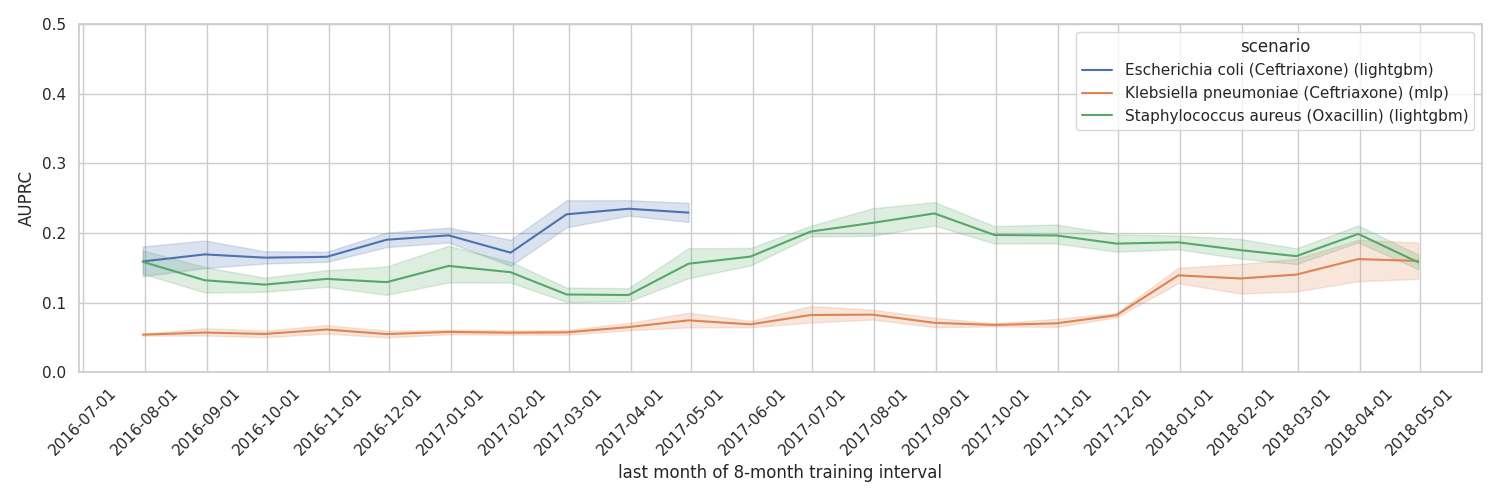
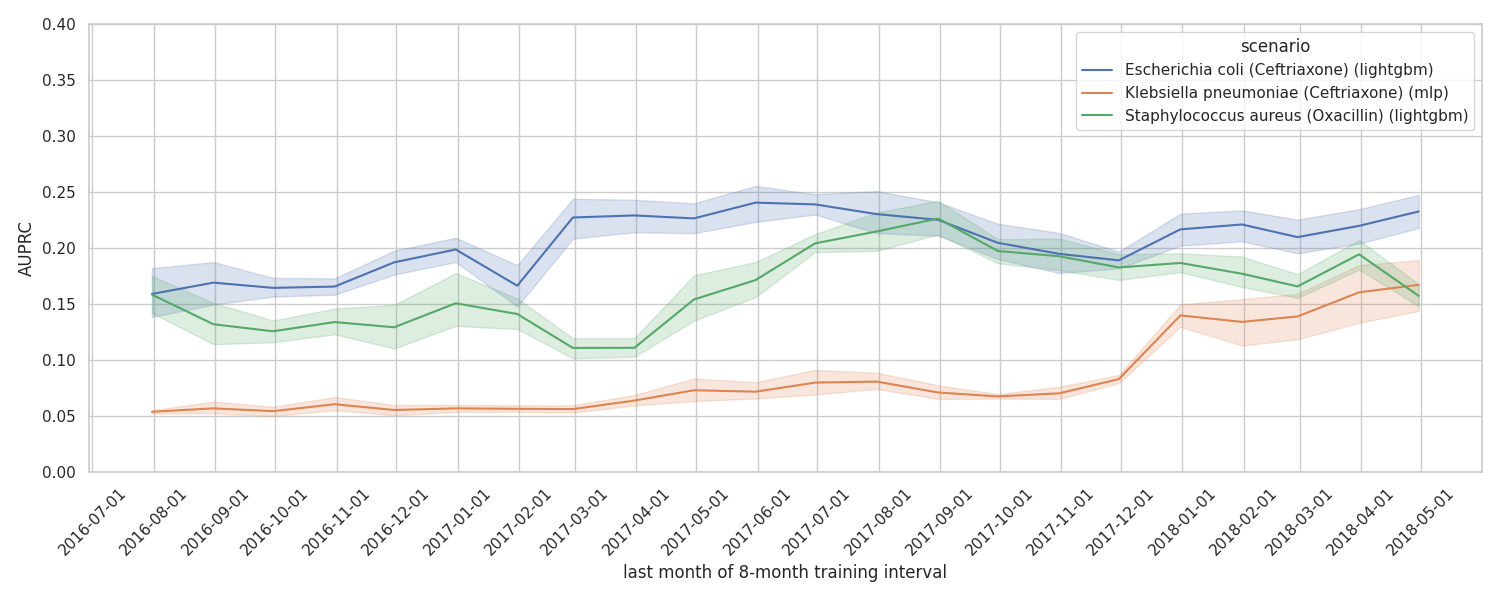
final sliding_window_validation results

diff --git a/amr_maldi_ml/plotting/plot_sliding_window_validation_major_scenarios.py b/amr_maldi_ml/plotting/plot_sliding_window_validation_major_scenarios.py
@@ -104,7 +104,7 @@ if __name__ == '__main__':
 
     # Plot lineplot.
     sns.set(style="whitegrid")
-    fig, ax = plt.subplots(figsize=(15,5))
+    fig, ax = plt.subplots(figsize=(15,6))
 
     g = sns.lineplot(
         x=args.date_column,
@@ -123,10 +123,10 @@ if __name__ == '__main__':
     ax.xaxis.set_major_formatter(mdates.DateFormatter('%Y-%m-%d'))
 
     if args.metric == 'auprc':
-        plt.ylim((0.0,0.5))
+        plt.ylim((0.0,0.4))
     else:
-        plt.ylim((0.0,1.0))
-        plt.axhline(0.5, color='lightgrey', linestyle='--')
+        plt.ylim((0.3,1.0))
+        plt.axhline(0.5, color='darkgrey', linestyle='--')
 
     if args.suffix != '':
         suffix = '_' + args.suffix
